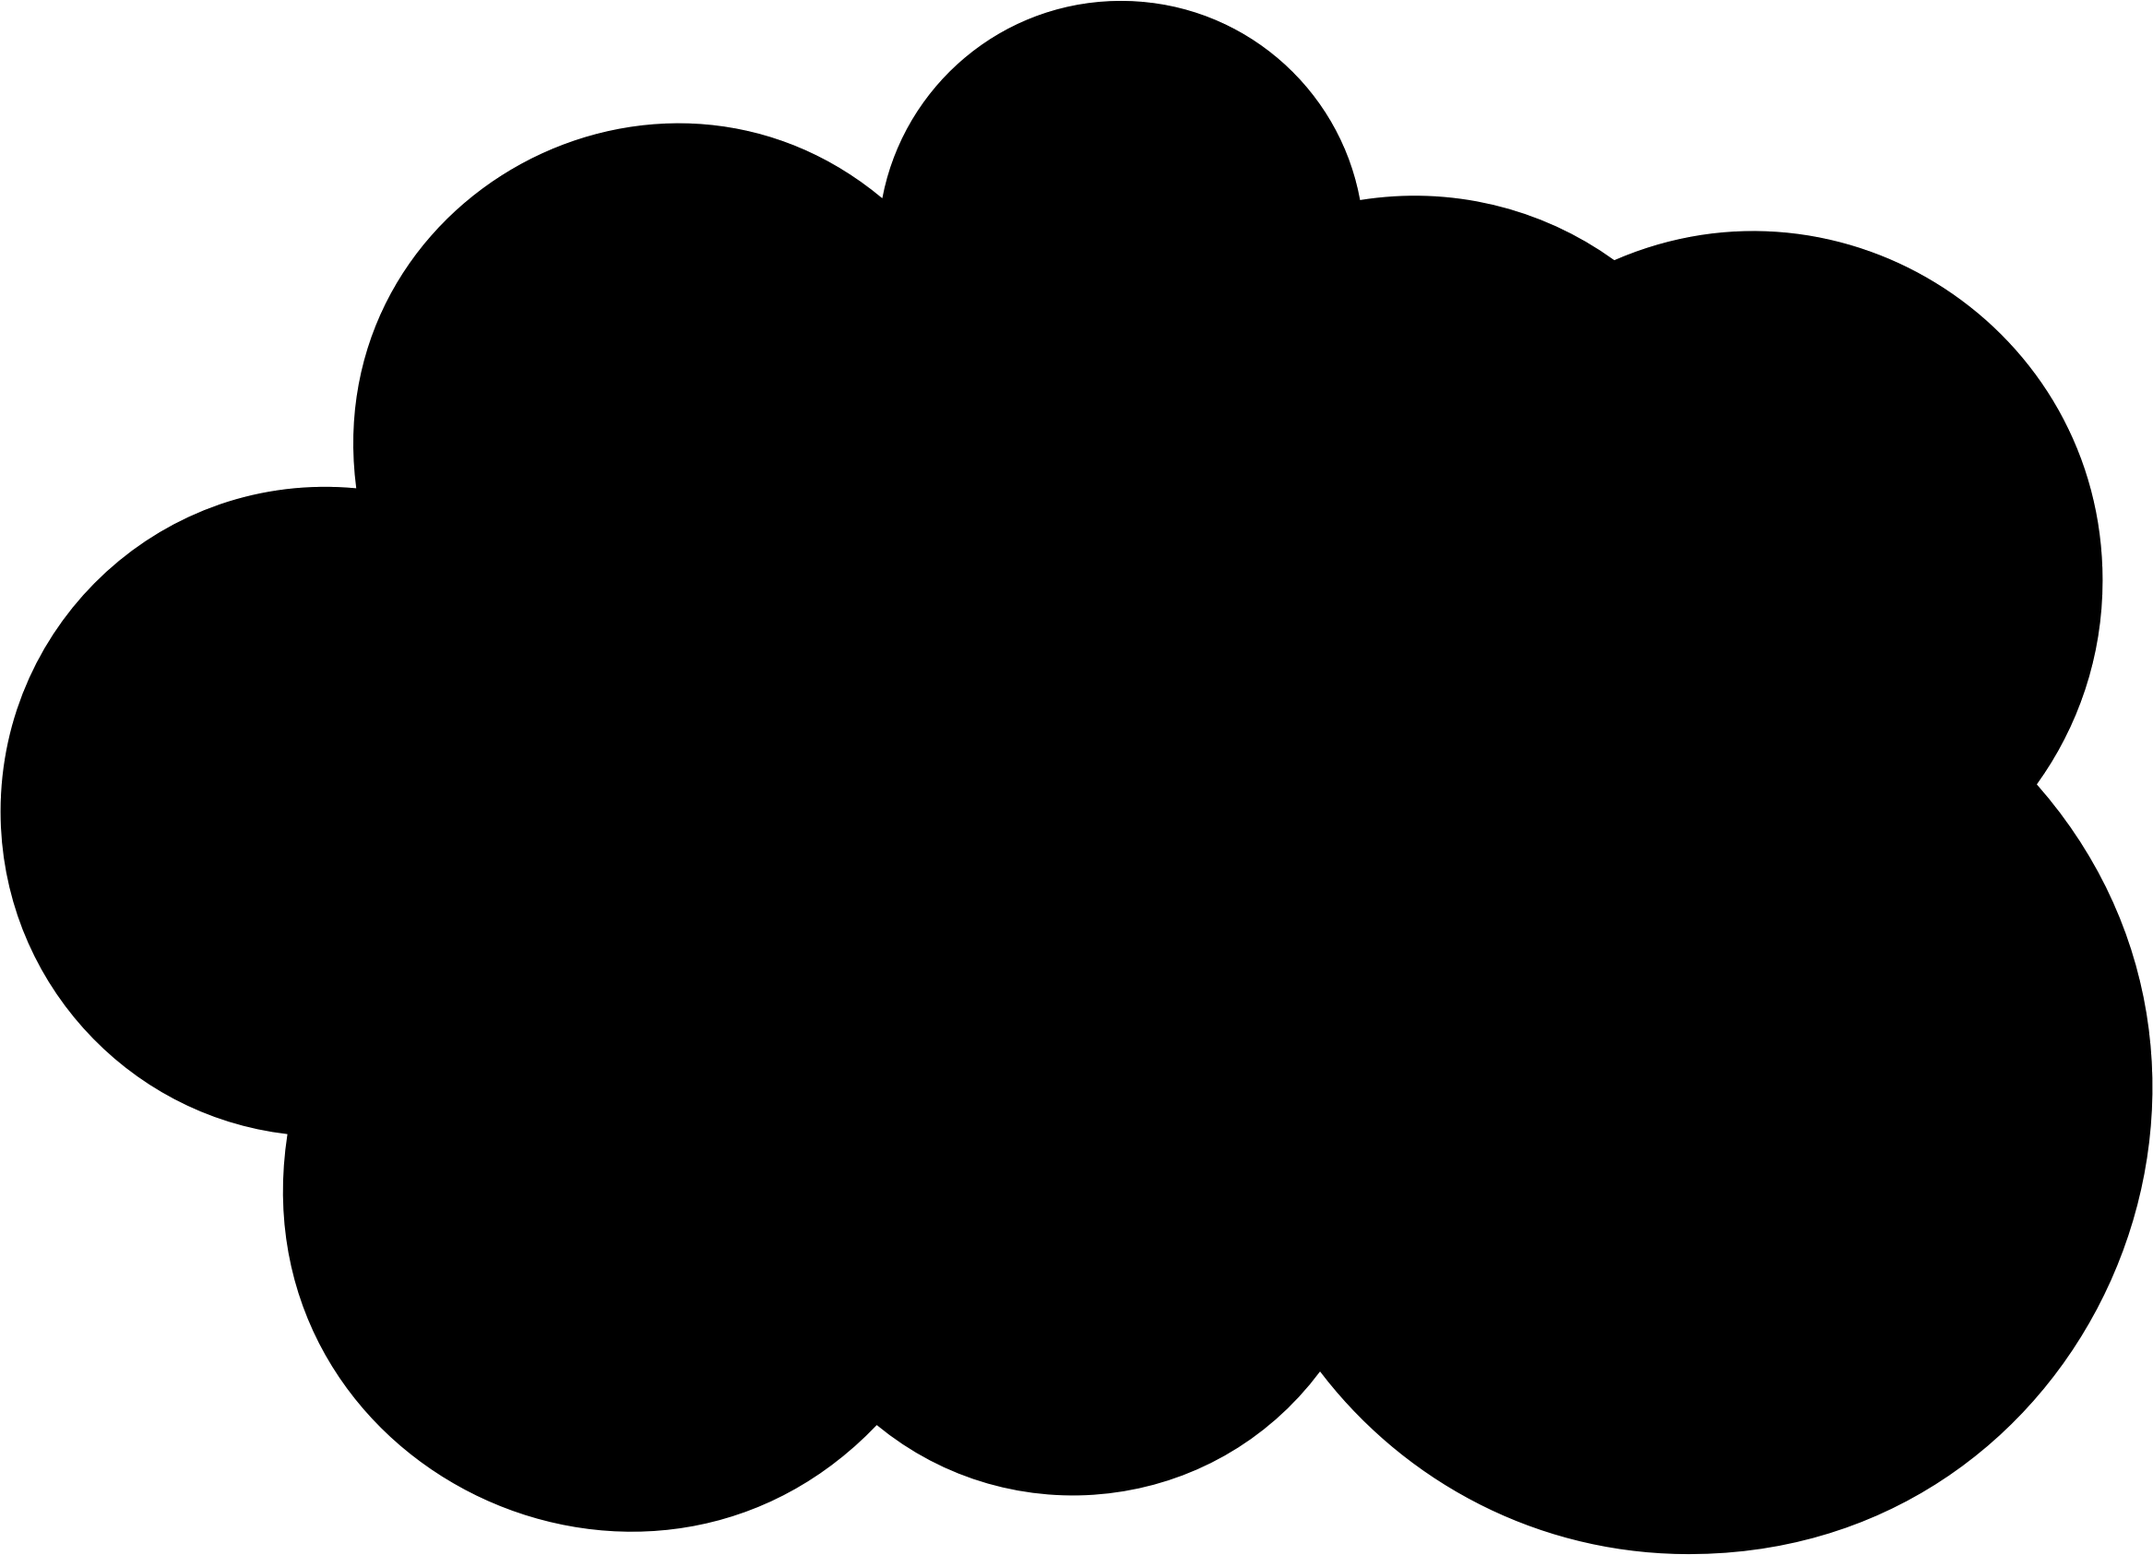
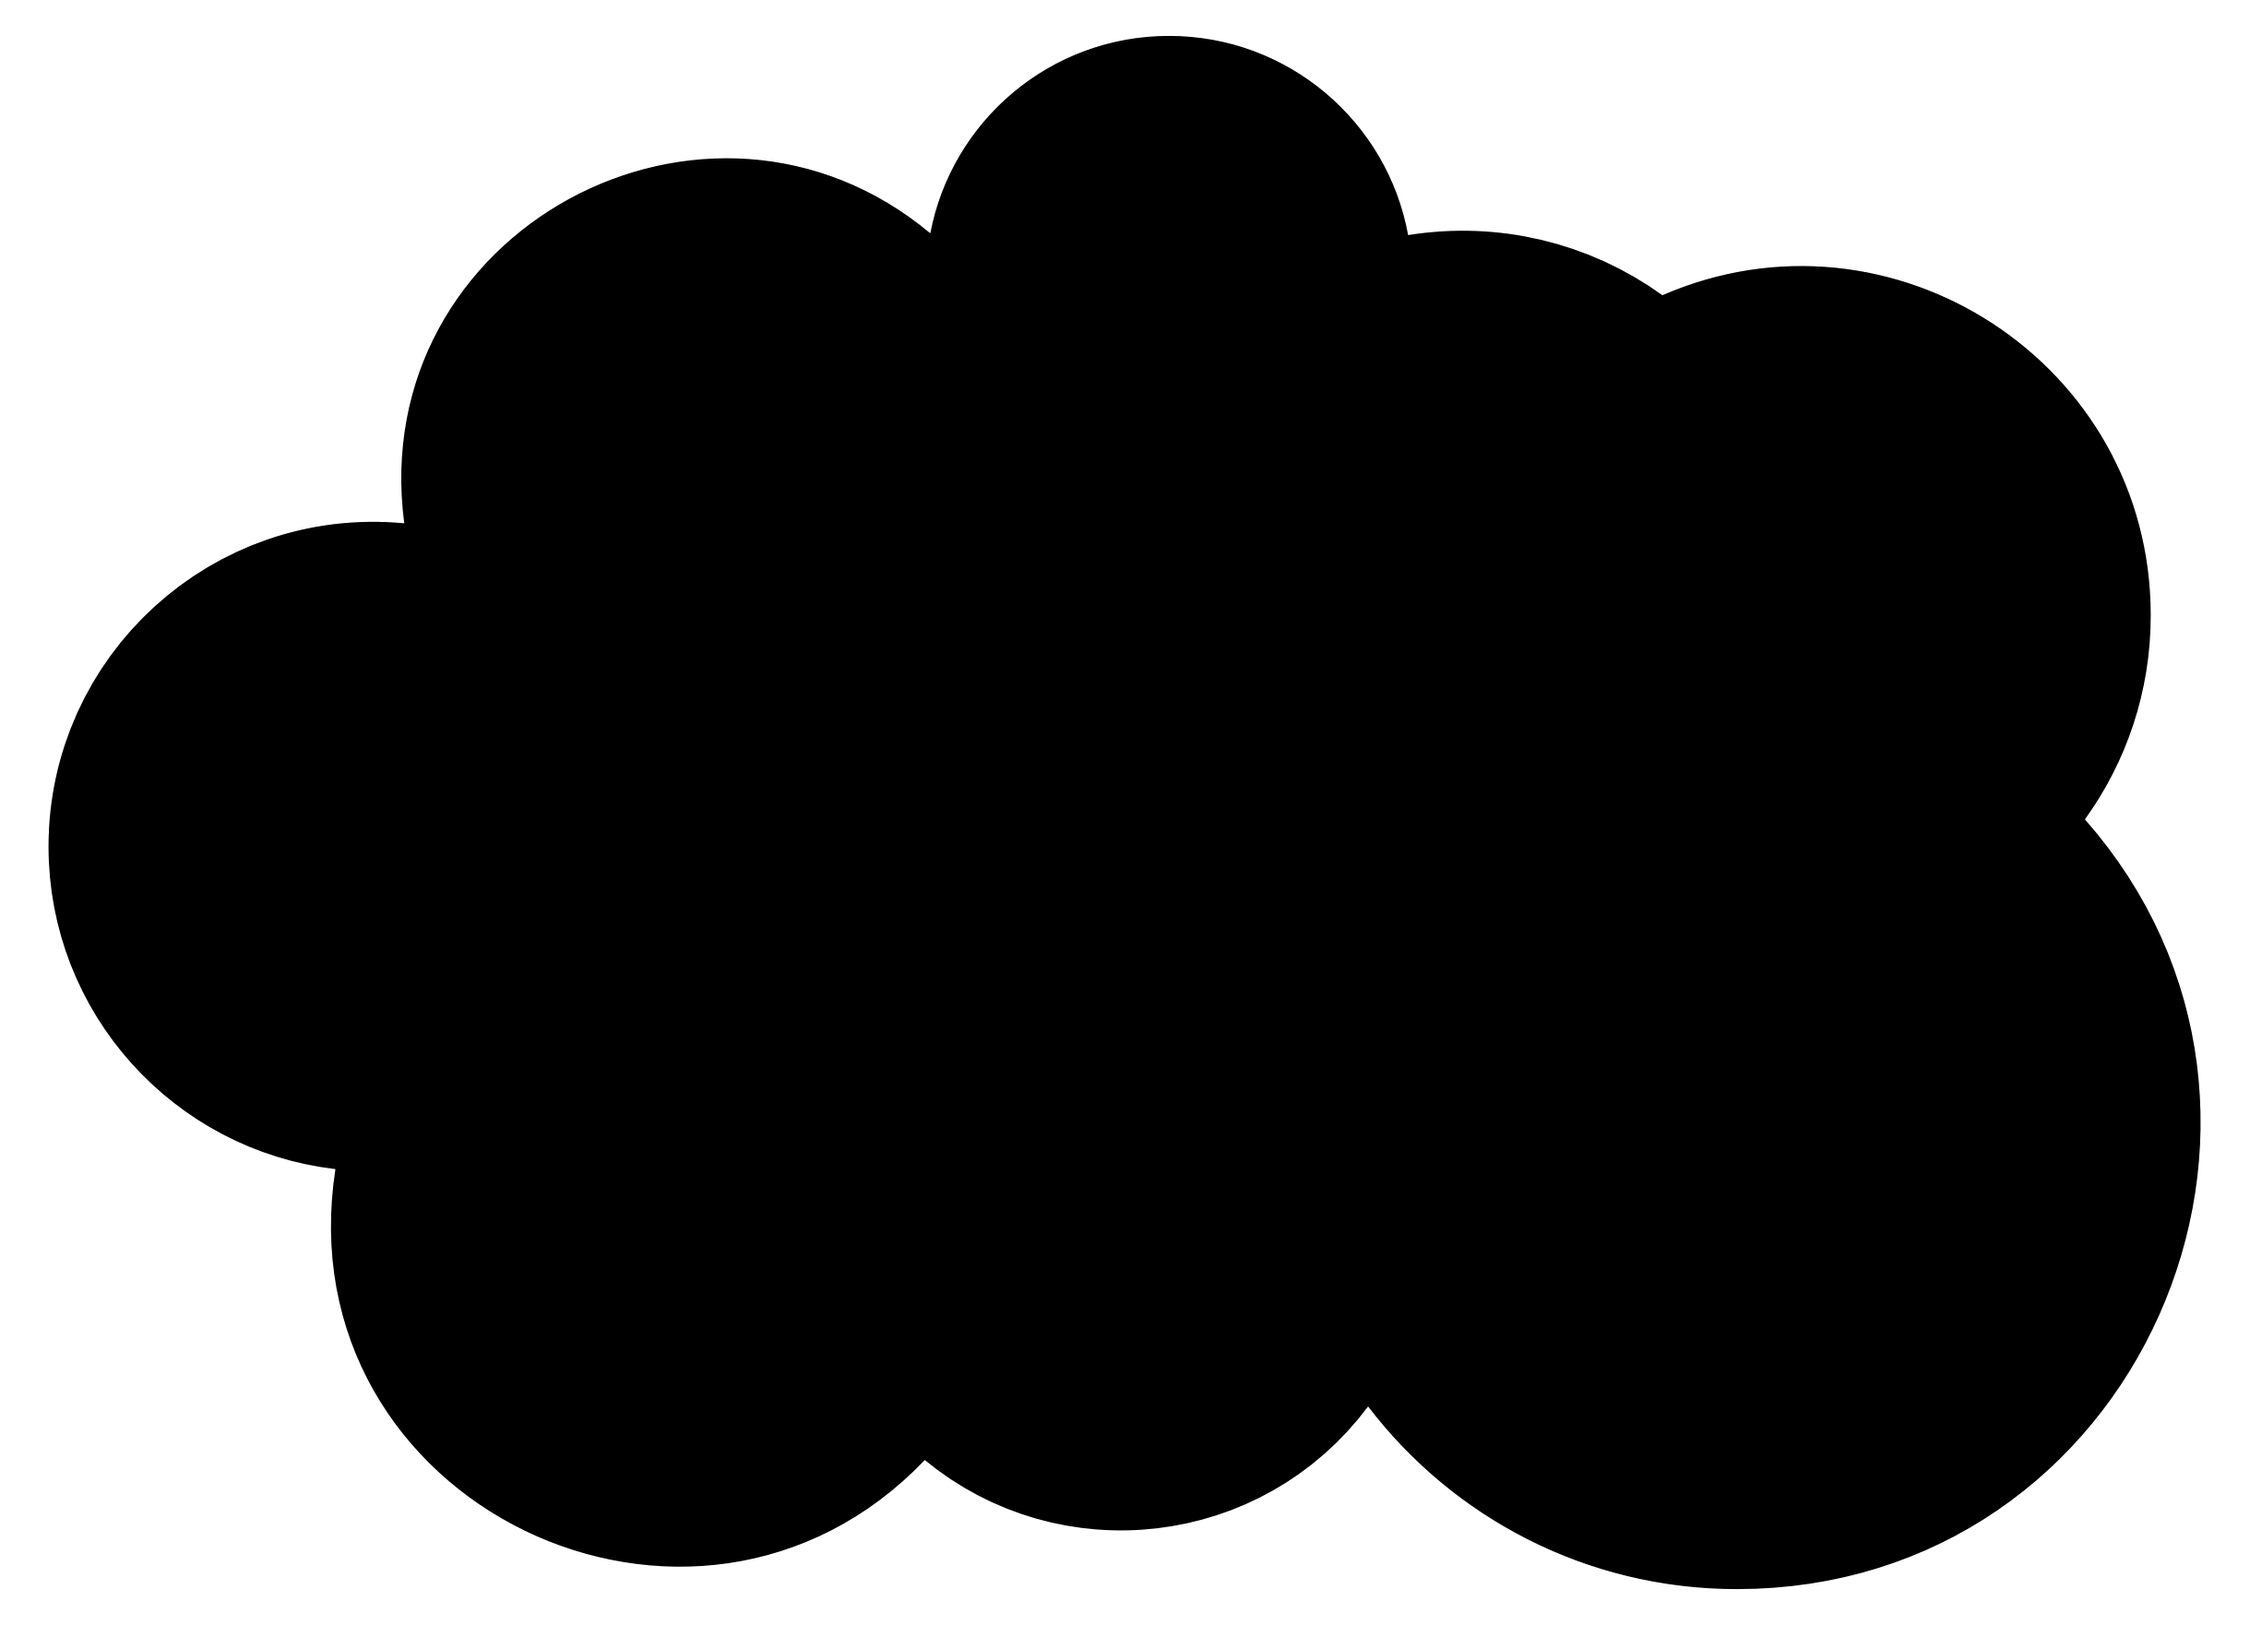
Updated wordcloud layout

diff --git a/twitter_ml/classify/classify_text.py b/twitter_ml/classify/classify_text.py
@@ -106,7 +106,7 @@ if __name__ == "__main__":
         stopwords = None
         # stopwords={}
 
-        wordcloud = WordCloud(stopwords=stopwords, mask=mask).generate(all_words)
+        wordcloud = WordCloud(background_color="white", stopwords=stopwords, contour_width=3, contour_color="firebrick", mask=mask).generate(all_words)
         plt.imshow(wordcloud, interpolation='bilinear')
         plt.axis("off")
         plt.show()
